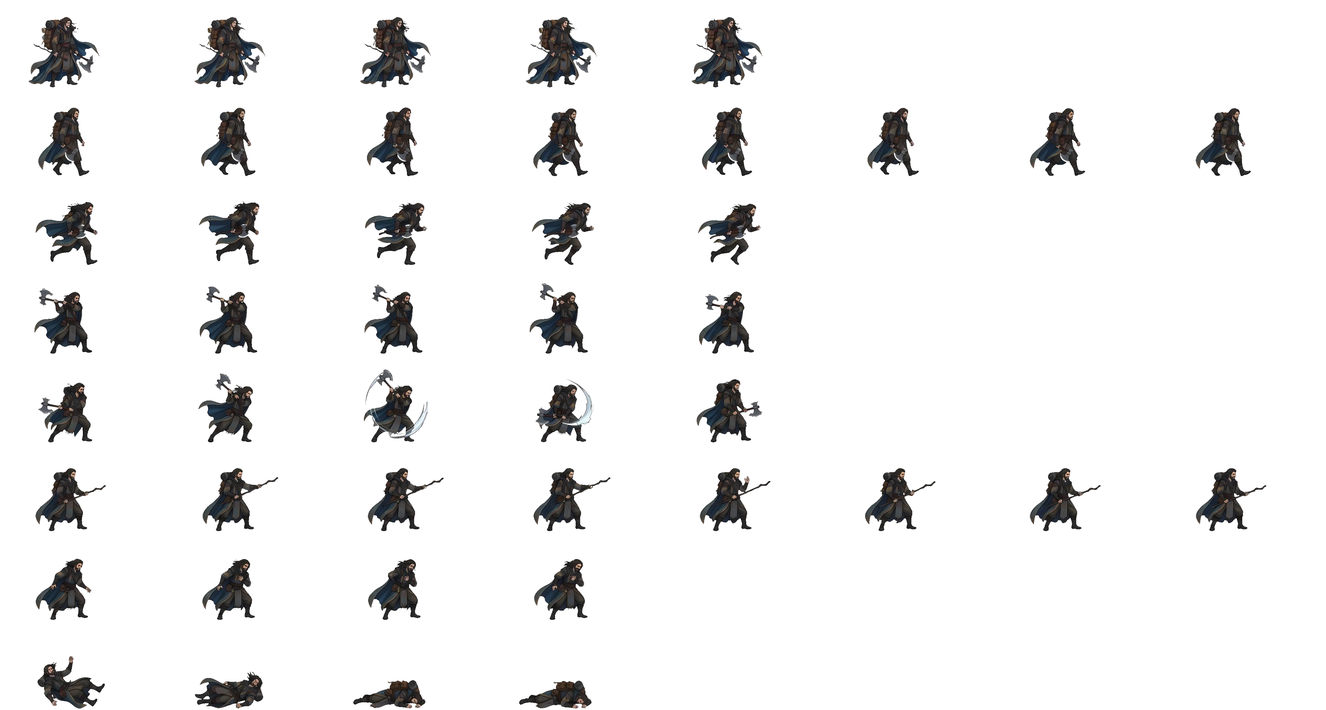
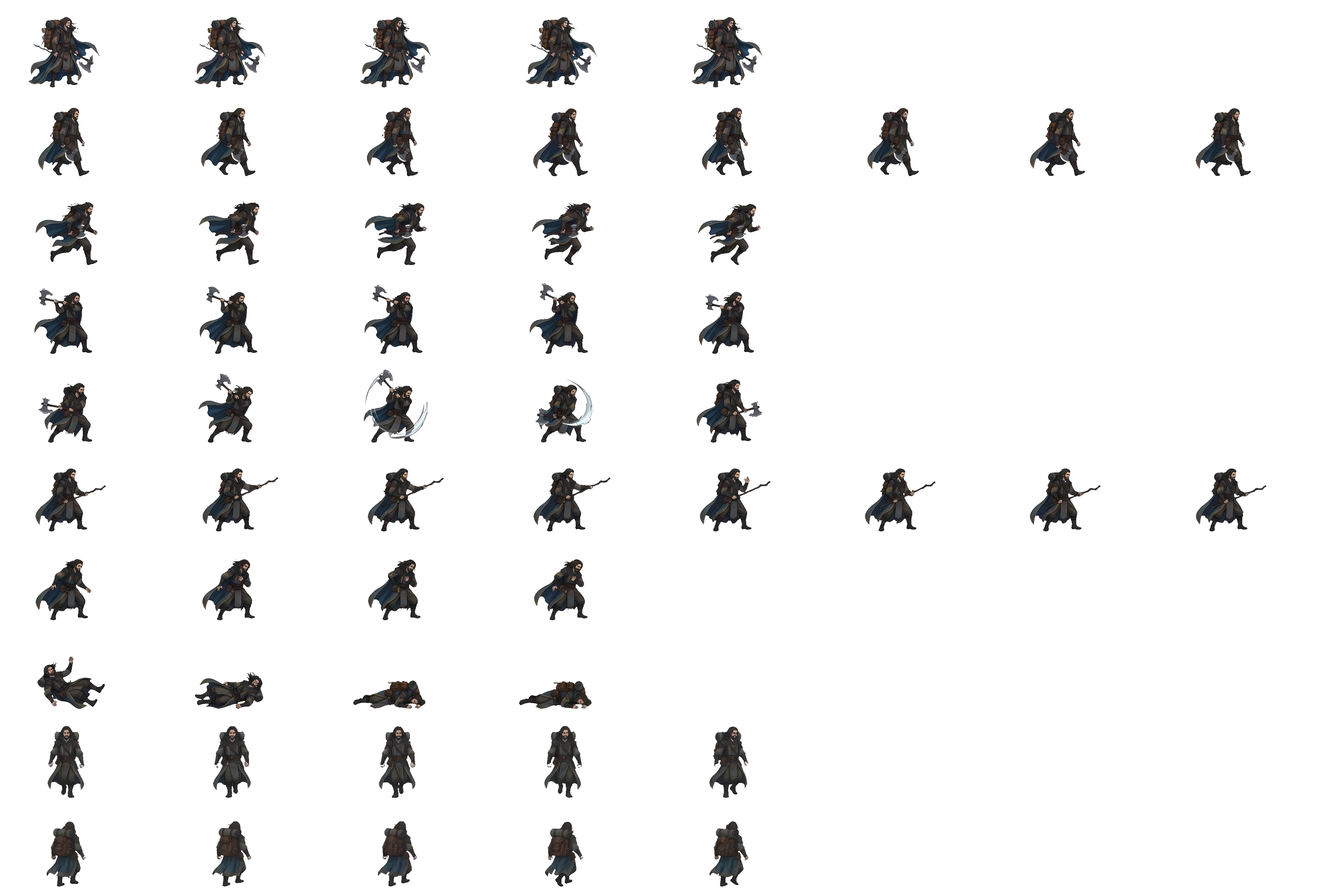
Jak: back and front walk when following up and down
Claude-Session: https://claude.ai/code/session_016iBLHZqgtWrdG3jWmShjEG

diff --git a/index.html b/index.html
@@ -49,7 +49,7 @@ body{display:flex;justify-content:center}
 
 <script>
 const ATLAS_SRC="assets/lum_atlas_v5.webp?v=b5d321dc8e";
-const ASSET_SRC={"ground": "assets/ground.webp?v=c61ee31f5b", "rock1": "assets/rock1.webp?v=4e677f3831", "rock2": "assets/rock2.webp?v=7dd0569dcb", "rock3": "assets/rock3.webp?v=56b967ad67", "rock4": "assets/rock4.webp?v=0d1af80431", "cottage": "assets/cottage.webp?v=698443d54d", "cottage_win": "assets/cottage_win.webp?v=7aa924e07f", "cottage_runes": "assets/cottage_runes.webp?v=fedf57d4f3", "well2": "assets/well2.webp?v=af52a369ca", "signpost": "assets/signpost.webp?v=58d6cbc3c9", "runetree": "assets/runetree.webp?v=882fef9528", "runetree_runes": "assets/runetree_runes.webp?v=32432a9566", "forest_bg": "assets/forest_bg.webp?v=48e7441431", "wellroom": "assets/wellroom.webp?v=4c525760c2", "wellroom_runes": "assets/wellroom_runes.webp?v=f42530f4f2", "wellroom_nobucket": "assets/wellroom_nobucket.webp?v=f47f13a7c8", "bucket_hat": "assets/bucket_hat.webp?v=a26814e8f8", "bucket_worn": "assets/bucket_worn.webp?v=a493a15958", "jelly_idle": "assets/jelly_idle.webp?v=71fed74136", "jelly_lunge": "assets/jelly_lunge.webp?v=92b0dc4343", "studyroom": "assets/studyroom.webp?v=a45726d36c", "grave0": "assets/grave0.webp?v=ad382cac7a", "grave1": "assets/grave1.webp?v=cefcf7ebac", "grave2": "assets/grave2.webp?v=9878aa3e55", "grave3": "assets/grave3.webp?v=a7a223d89e", "grave4": "assets/grave4.webp?v=a1028b8b90", "grave5": "assets/grave5.webp?v=0e02f5ad47", "grave6": "assets/grave6.webp?v=d0d80e2012", "grave7": "assets/grave7.webp?v=63f26d00aa", "grave8": "assets/grave8.webp?v=23e439ffe1", "grave9": "assets/grave9.webp?v=e07c5d7e34", "grave10": "assets/grave10.webp?v=fc3c50105c", "grave11": "assets/grave11.webp?v=8c2b60ce50", "bedroom": "assets/bedroom.webp?v=2225ec5dde", "sleep_cos": "assets/sleep_cos.webp?v=1b3af569b0", "sleep_lum": "assets/sleep_lum.webp?v=cd742dd436", "shoproom": "assets/shoproom.webp?v=79fc4857bd", "pondroom": "assets/pondroom.webp?v=50b5134a4a", "pcol_l": "assets/pcol_l.webp?v=e9bb5ccd70", "pcol_r": "assets/pcol_r.webp?v=dbb98c3bbf", "shed": "assets/shed.webp?v=543a9519de", "shedroom": "assets/shedroom.webp?v=f4136aef1d", "mimic": "assets/mimic.webp?v=b4eccb2cc0", "skel": "assets/skel.webp?v=6bdb7d42b9", "fokalur": "assets/fokalur.webp?v=32e8fdde12", "gate": "assets/gate.webp?v=b13c3b515c", "hut": "assets/hut.webp?v=93968f3788", "icon_potion": "assets/icon_potion.webp?v=ead5b0d648", "icon_pouch_seal": "assets/icon_pouch_seal.webp?v=f5895d2c6b", "icon_pouch": "assets/icon_pouch.webp?v=1228805e30", "icon_pouch_rose": "assets/icon_pouch_rose.webp?v=9ce159b238", "icon_pouch_crystal": "assets/icon_pouch_crystal.webp?v=0f51c72ecd", "icon_stick": "assets/icon_stick.webp?v=7da6e80825", "icon_rod": "assets/icon_rod.webp?v=500c8ad5de", "icon_staff_crystal": "assets/icon_staff_crystal.webp?v=2fadb8e7cf", "icon_staff_unicorn": "assets/icon_staff_unicorn.webp?v=19aca18031", "icon_sword_wood": "assets/icon_sword_wood.webp?v=51208a1356", "icon_sword_iron": "assets/icon_sword_iron.webp?v=5d4e663c8b", "icon_blade_dark": "assets/icon_blade_dark.webp?v=f39a2c7691", "icon_sword_long": "assets/icon_sword_long.webp?v=e2ed18cc86", "icon_sword_rune": "assets/icon_sword_rune.webp?v=0950c74e57", "icon_boots_leather": "assets/icon_boots_leather.webp?v=735092ee0b", "icon_boots_rubber_green": "assets/icon_boots_rubber_green.webp?v=698906df6b", "icon_boots_chain": "assets/icon_boots_chain.webp?v=024ff688e1", "icon_boots_plate": "assets/icon_boots_plate.webp?v=74076691fc", "icon_boots_winged": "assets/icon_boots_winged.webp?v=8c4553d310", "icon_cloak_apprentice": "assets/icon_cloak_apprentice.webp?v=1d1a6ddb1f", "icon_cloak_undine": "assets/icon_cloak_undine.webp?v=940789d635", "icon_cloak_green": "assets/icon_cloak_green.webp?v=76adbc8f83", "icon_cloak_grey": "assets/icon_cloak_grey.webp?v=d59e43efdb", "icon_cape_stars": "assets/icon_cape_stars.webp?v=d6e7732a4b", "icon_cape_lion_red": "assets/icon_cape_lion_red.webp?v=71308a4082", "icon_cape_lion_white": "assets/icon_cape_lion_white.webp?v=898859a526", "icon_cape_wings": "assets/icon_cape_wings.webp?v=2f7ea8ce7c", "slugking": "assets/slugking.webp?v=2f01c887f5", "jelly_idle_moss": "assets/jelly_idle_moss.webp?v=86cd24ecd3", "jelly_lunge_moss": "assets/jelly_lunge_moss.webp?v=bb5e70117f", "rskel": "assets/rskel.webp?v=c21afe8d1f", "wisp": "assets/wisp.webp?v=5b64d7379a", "vane": "assets/vane.webp?v=ddc4dc4c1e", "reaper": "assets/reaper.webp?v=2d19da05f6", "vanehut": "assets/vanehut.webp?v=27acb20d56", "ing_duskberry": "assets/ing_duskberry.webp?v=227fa12fae", "ing_dewberry": "assets/ing_dewberry.webp?v=7acbb8f24a", "ing_emberberry": "assets/ing_emberberry.webp?v=182192d25f", "ing_leavesB5": "assets/ing_leavesB5.webp?v=670e67f484", "ing_slime": "assets/ing_slime.webp?v=2d52e374b9", "ing_bones": "assets/ing_bones.webp?v=d2f5252a5b", "ing_twig": "assets/ing_twig.webp?v=ce341bff86", "tool_lantern": "assets/tool_lantern.webp?v=b0badf9ba0", "tool_lantern_ornate": "assets/tool_lantern_ornate.webp?v=6d22a8b9d8", "tool_rune_compass": "assets/tool_rune_compass.webp?v=3d79732549", "emote_grab": "assets/emote_grab.webp?v=0210ee5f87", "icon4_boots_fur": "assets/icon4_boots_fur.webp?v=257380106a", "spider": "assets/spider.webp?v=2082b59414", "bat": "assets/bat.webp?v=8384f2ed44", "fox": "assets/fox.webp?v=d1d5a33797", "flora": "assets/flora.webp?v=b2984d2fc2", "bramble_arch": "assets/bramble_arch.webp?v=f4f04cdb52", "bramble_hedge": "assets/bramble_hedge.webp?v=d4eccc44e3", "oak_big": "assets/oak_big.webp?v=a31af37e20", "webtree": "assets/webtree.webp?v=9c025b735f", "bwood_big": "assets/bwood_big.webp?v=cfb9ccc351", "bwood_small_a": "assets/bwood_small_a.webp?v=33d4334dc6", "bwood_small_b": "assets/bwood_small_b.webp?v=85c53e90a1", "bwood2_big": "assets/bwood2_big.webp?v=fdec0206c8", "bwood2_small_a": "assets/bwood2_small_a.webp?v=423d3b4f74", "bwood2_small_b": "assets/bwood2_small_b.webp?v=fc8a2edaac", "floor_st": "assets/floor_st.webp?v=c9eb0963f5", "jak": "assets/jak.webp?v=816094a379", "icon_axe_wood": "assets/icon_axe_wood.webp?v=c531e310b1", "icon_axe_double_iron": "assets/icon_axe_double_iron.webp?v=1b08693001", "icon_axe_pearl": "assets/icon_axe_pearl.webp?v=1dfe41cb0b", "icon_axe_rune_gold": "assets/icon_axe_rune_gold.webp?v=aac528fea8", "icon_axe_jeweled": "assets/icon_axe_jeweled.webp?v=ea9c4a26e0", "icon_axe_broken": "assets/icon_axe_broken.webp?v=e1893bb616", "icon_axe_rusty": "assets/icon_axe_rusty.webp?v=1378b7b200", "icon_axe_leaf": "assets/icon_axe_leaf.webp?v=a4488d45e3", "icon_axe_bearded": "assets/icon_axe_bearded.webp?v=9af8e4a3ca", "icon_axe_steel": "assets/icon_axe_steel.webp?v=471dd46f27", "icon_axe_frost": "assets/icon_axe_frost.webp?v=302d3e06ea", "fox_red": "assets/fox_red.webp?v=9e66ea9c96", "jelly_idle_red": "assets/jelly_idle_red.webp?v=43ea16fbfd", "jelly_lunge_red": "assets/jelly_lunge_red.webp?v=d978f8f86e", "spider_dark": "assets/spider_dark.webp?v=dd9cccd6da", "thorngate": "assets/thorngate.webp?v=42c0f07e5d", "rose_bud": "assets/rose_bud.webp?v=bcef1e8f75", "rose_open": "assets/rose_open.webp?v=a0242c359d", "rose_twin": "assets/rose_twin.webp?v=e2297a7a91", "thdec_stickweb": "assets/thdec_stickweb.webp?v=a0b5d29ef3", "thdec_mushweb": "assets/thdec_mushweb.webp?v=ef66bb87d1", "thdec_litterweb": "assets/thdec_litterweb.webp?v=55159b7bc4", "thdec_fernweb": "assets/thdec_fernweb.webp?v=835280ac84", "thdec_smallweb": "assets/thdec_smallweb.webp?v=ca6202bcd2", "thdec_log": "assets/thdec_log.webp?v=366093c3a6", "icon3_mortar_clay": "assets/icon3_mortar_clay.webp?v=79428386fe", "icon4_sun_bottle": "assets/icon4_sun_bottle.webp?v=814504de18", "icon3_frost_bowl": "assets/icon3_frost_bowl.webp?v=0e086c9798", "icon3_pastel_powders": "assets/icon3_pastel_powders.webp?v=f431b705e2", "icon2_cross_wood": "assets/icon2_cross_wood.webp?v=161f6ec751", "icon2_key_gold": "assets/icon2_key_gold.webp?v=8ff3771dd5", "hollow": "assets/hollow.webp?v=dfa726d993", "dun5": "assets/dun5.webp?v=85029c1dff", "dun4": "assets/dun4.webp?v=b46827d446", "dun3": "assets/dun3.webp?v=7a88b0e860", "dun2": "assets/dun2.webp?v=21d09cc1d9", "dun1": "assets/dun1.webp?v=06e6dc99cc", "acc_heart_ring": "assets/acc_heart_ring.webp?v=5bc343177a", "acc_braid_ring": "assets/acc_braid_ring.webp?v=ef878f119c", "acc_moon_necklace": "assets/acc_moon_necklace.webp?v=e57426d856", "acc_slime_ring": "assets/acc_slime_ring.webp?v=01154880ae", "acc_amethyst": "assets/acc_amethyst.webp?v=459ad65fc8", "acc_sunmoon_medal": "assets/acc_sunmoon_medal.webp?v=0ebb4c8567", "acc_lion_ring": "assets/acc_lion_ring.webp?v=d803438586", "acc_shell_necklace": "assets/acc_shell_necklace.webp?v=eb822dcaef", "acc_wing_brooch": "assets/acc_wing_brooch.webp?v=9e7d87c59b", "acc_moonstone_ring": "assets/acc_moonstone_ring.webp?v=ffda303e15", "sfg_chest": "assets/sfg_chest.webp?v=a472570ab1", "sfg_table": "assets/sfg_table.webp?v=013527fc10", "sfg_tableleg": "assets/sfg_tableleg.webp?v=1ad782e189", "sfg_side": "assets/sfg_side.webp?v=a4a3f2284f", "sfg_lectern": "assets/sfg_lectern.webp?v=c0df8fec54", "sfg_roots": "assets/sfg_roots.webp?v=c59040b279", "birch1": "assets/birch1.webp?v=b0ea24106f", "birch2": "assets/birch2.webp?v=2dd033eac7", "birch3": "assets/birch3.webp?v=e64553ecbd", "willow1": "assets/willow1.webp?v=98786f0c84", "cobble_strip": "assets/cobble_strip.webp?v=284855081b", "cobble_runes": "assets/cobble_runes.webp?v=07a4cad76e", "bridge0": "assets/bridge0.webp?v=c930b521f8", "bridge1": "assets/bridge1.webp?v=8e675faec7", "bridge2": "assets/bridge2.webp?v=65bc61c470", "bridge3": "assets/bridge3.webp?v=153e2f5c59", "bridge4": "assets/bridge4.webp?v=b6ff9fef90", "drained0": "assets/drained0.webp?v=dee278254d", "drained1": "assets/drained1.webp?v=c38f30e4a2", "drained2": "assets/drained2.webp?v=c2abd46393", "drained3": "assets/drained3.webp?v=d0408dce90", "drained4": "assets/drained4.webp?v=49fe89ce29", "drained5": "assets/drained5.webp?v=8b2a410ea1", "drained6": "assets/drained6.webp?v=b735f267b4", "drained7": "assets/drained7.webp?v=aefa2993f7", "drained8": "assets/drained8.webp?v=e853833327", "drained9": "assets/drained9.webp?v=9a5541fe81", "shrub0": "assets/shrub0.webp?v=f9f7df7aac", "shrub1": "assets/shrub1.webp?v=f4825b0d48", "shrub2": "assets/shrub2.webp?v=b0edbbd898", "shrub3": "assets/shrub3.webp?v=bc7a089a89", "shrub4": "assets/shrub4.webp?v=bb66d76d2e", "shrub5": "assets/shrub5.webp?v=ffbae35557", "shrub6": "assets/shrub6.webp?v=1c234a4c17", "shrub7": "assets/shrub7.webp?v=5b1a8119f9", "shrub8": "assets/shrub8.webp?v=a937edbbf3", "shrub9": "assets/shrub9.webp?v=dfb2f54698", "shrub10": "assets/shrub10.webp?v=5c2dd38d41", "shrub11": "assets/shrub11.webp?v=3faa1b4736", "bird0": "assets/bird0.webp?v=7d5d2404e5", "bird1": "assets/bird1.webp?v=eb12c73b19", "bird2": "assets/bird2.webp?v=ca02415237", "bird3": "assets/bird3.webp?v=42efa7eb02", "bird4": "assets/bird4.webp?v=7a9329e236", "bird5": "assets/bird5.webp?v=90bd3aa6a3", "bird6": "assets/bird6.webp?v=0a764f8ed6", "bird7": "assets/bird7.webp?v=04e3aa6d61", "bird8": "assets/bird8.webp?v=11cac9e48b", "bird9": "assets/bird9.webp?v=209732f271", "bird10": "assets/bird10.webp?v=518afeccc0", "bird11": "assets/bird11.webp?v=41c18c5083", "bird12": "assets/bird12.webp?v=9250bb7453", "topi_cube": "assets/topi_cube.webp?v=1fc6082fd5", "topi_ball": "assets/topi_ball.webp?v=78a3cfcc82", "topi_spiral": "assets/topi_spiral.webp?v=d6ac5cd38a", "topi_cone": "assets/topi_cone.webp?v=67e11f2900"};
+const ASSET_SRC={"ground": "assets/ground.webp?v=c61ee31f5b", "rock1": "assets/rock1.webp?v=4e677f3831", "rock2": "assets/rock2.webp?v=7dd0569dcb", "rock3": "assets/rock3.webp?v=56b967ad67", "rock4": "assets/rock4.webp?v=0d1af80431", "cottage": "assets/cottage.webp?v=698443d54d", "cottage_win": "assets/cottage_win.webp?v=7aa924e07f", "cottage_runes": "assets/cottage_runes.webp?v=fedf57d4f3", "well2": "assets/well2.webp?v=af52a369ca", "signpost": "assets/signpost.webp?v=58d6cbc3c9", "runetree": "assets/runetree.webp?v=882fef9528", "runetree_runes": "assets/runetree_runes.webp?v=32432a9566", "forest_bg": "assets/forest_bg.webp?v=48e7441431", "wellroom": "assets/wellroom.webp?v=4c525760c2", "wellroom_runes": "assets/wellroom_runes.webp?v=f42530f4f2", "wellroom_nobucket": "assets/wellroom_nobucket.webp?v=f47f13a7c8", "bucket_hat": "assets/bucket_hat.webp?v=a26814e8f8", "bucket_worn": "assets/bucket_worn.webp?v=a493a15958", "jelly_idle": "assets/jelly_idle.webp?v=71fed74136", "jelly_lunge": "assets/jelly_lunge.webp?v=92b0dc4343", "studyroom": "assets/studyroom.webp?v=a45726d36c", "grave0": "assets/grave0.webp?v=ad382cac7a", "grave1": "assets/grave1.webp?v=cefcf7ebac", "grave2": "assets/grave2.webp?v=9878aa3e55", "grave3": "assets/grave3.webp?v=a7a223d89e", "grave4": "assets/grave4.webp?v=a1028b8b90", "grave5": "assets/grave5.webp?v=0e02f5ad47", "grave6": "assets/grave6.webp?v=d0d80e2012", "grave7": "assets/grave7.webp?v=63f26d00aa", "grave8": "assets/grave8.webp?v=23e439ffe1", "grave9": "assets/grave9.webp?v=e07c5d7e34", "grave10": "assets/grave10.webp?v=fc3c50105c", "grave11": "assets/grave11.webp?v=8c2b60ce50", "bedroom": "assets/bedroom.webp?v=2225ec5dde", "sleep_cos": "assets/sleep_cos.webp?v=1b3af569b0", "sleep_lum": "assets/sleep_lum.webp?v=cd742dd436", "shoproom": "assets/shoproom.webp?v=79fc4857bd", "pondroom": "assets/pondroom.webp?v=50b5134a4a", "pcol_l": "assets/pcol_l.webp?v=e9bb5ccd70", "pcol_r": "assets/pcol_r.webp?v=dbb98c3bbf", "shed": "assets/shed.webp?v=543a9519de", "shedroom": "assets/shedroom.webp?v=f4136aef1d", "mimic": "assets/mimic.webp?v=b4eccb2cc0", "skel": "assets/skel.webp?v=6bdb7d42b9", "fokalur": "assets/fokalur.webp?v=32e8fdde12", "gate": "assets/gate.webp?v=b13c3b515c", "hut": "assets/hut.webp?v=93968f3788", "icon_potion": "assets/icon_potion.webp?v=ead5b0d648", "icon_pouch_seal": "assets/icon_pouch_seal.webp?v=f5895d2c6b", "icon_pouch": "assets/icon_pouch.webp?v=1228805e30", "icon_pouch_rose": "assets/icon_pouch_rose.webp?v=9ce159b238", "icon_pouch_crystal": "assets/icon_pouch_crystal.webp?v=0f51c72ecd", "icon_stick": "assets/icon_stick.webp?v=7da6e80825", "icon_rod": "assets/icon_rod.webp?v=500c8ad5de", "icon_staff_crystal": "assets/icon_staff_crystal.webp?v=2fadb8e7cf", "icon_staff_unicorn": "assets/icon_staff_unicorn.webp?v=19aca18031", "icon_sword_wood": "assets/icon_sword_wood.webp?v=51208a1356", "icon_sword_iron": "assets/icon_sword_iron.webp?v=5d4e663c8b", "icon_blade_dark": "assets/icon_blade_dark.webp?v=f39a2c7691", "icon_sword_long": "assets/icon_sword_long.webp?v=e2ed18cc86", "icon_sword_rune": "assets/icon_sword_rune.webp?v=0950c74e57", "icon_boots_leather": "assets/icon_boots_leather.webp?v=735092ee0b", "icon_boots_rubber_green": "assets/icon_boots_rubber_green.webp?v=698906df6b", "icon_boots_chain": "assets/icon_boots_chain.webp?v=024ff688e1", "icon_boots_plate": "assets/icon_boots_plate.webp?v=74076691fc", "icon_boots_winged": "assets/icon_boots_winged.webp?v=8c4553d310", "icon_cloak_apprentice": "assets/icon_cloak_apprentice.webp?v=1d1a6ddb1f", "icon_cloak_undine": "assets/icon_cloak_undine.webp?v=940789d635", "icon_cloak_green": "assets/icon_cloak_green.webp?v=76adbc8f83", "icon_cloak_grey": "assets/icon_cloak_grey.webp?v=d59e43efdb", "icon_cape_stars": "assets/icon_cape_stars.webp?v=d6e7732a4b", "icon_cape_lion_red": "assets/icon_cape_lion_red.webp?v=71308a4082", "icon_cape_lion_white": "assets/icon_cape_lion_white.webp?v=898859a526", "icon_cape_wings": "assets/icon_cape_wings.webp?v=2f7ea8ce7c", "slugking": "assets/slugking.webp?v=2f01c887f5", "jelly_idle_moss": "assets/jelly_idle_moss.webp?v=86cd24ecd3", "jelly_lunge_moss": "assets/jelly_lunge_moss.webp?v=bb5e70117f", "rskel": "assets/rskel.webp?v=c21afe8d1f", "wisp": "assets/wisp.webp?v=5b64d7379a", "vane": "assets/vane.webp?v=ddc4dc4c1e", "reaper": "assets/reaper.webp?v=2d19da05f6", "vanehut": "assets/vanehut.webp?v=27acb20d56", "ing_duskberry": "assets/ing_duskberry.webp?v=227fa12fae", "ing_dewberry": "assets/ing_dewberry.webp?v=7acbb8f24a", "ing_emberberry": "assets/ing_emberberry.webp?v=182192d25f", "ing_leavesB5": "assets/ing_leavesB5.webp?v=670e67f484", "ing_slime": "assets/ing_slime.webp?v=2d52e374b9", "ing_bones": "assets/ing_bones.webp?v=d2f5252a5b", "ing_twig": "assets/ing_twig.webp?v=ce341bff86", "tool_lantern": "assets/tool_lantern.webp?v=b0badf9ba0", "tool_lantern_ornate": "assets/tool_lantern_ornate.webp?v=6d22a8b9d8", "tool_rune_compass": "assets/tool_rune_compass.webp?v=3d79732549", "emote_grab": "assets/emote_grab.webp?v=0210ee5f87", "icon4_boots_fur": "assets/icon4_boots_fur.webp?v=257380106a", "spider": "assets/spider.webp?v=2082b59414", "bat": "assets/bat.webp?v=8384f2ed44", "fox": "assets/fox.webp?v=d1d5a33797", "flora": "assets/flora.webp?v=b2984d2fc2", "bramble_arch": "assets/bramble_arch.webp?v=f4f04cdb52", "bramble_hedge": "assets/bramble_hedge.webp?v=d4eccc44e3", "oak_big": "assets/oak_big.webp?v=a31af37e20", "webtree": "assets/webtree.webp?v=9c025b735f", "bwood_big": "assets/bwood_big.webp?v=cfb9ccc351", "bwood_small_a": "assets/bwood_small_a.webp?v=33d4334dc6", "bwood_small_b": "assets/bwood_small_b.webp?v=85c53e90a1", "bwood2_big": "assets/bwood2_big.webp?v=fdec0206c8", "bwood2_small_a": "assets/bwood2_small_a.webp?v=423d3b4f74", "bwood2_small_b": "assets/bwood2_small_b.webp?v=fc8a2edaac", "floor_st": "assets/floor_st.webp?v=c9eb0963f5", "jak": "assets/jak.webp?v=2e39bccff5", "icon_axe_wood": "assets/icon_axe_wood.webp?v=c531e310b1", "icon_axe_double_iron": "assets/icon_axe_double_iron.webp?v=1b08693001", "icon_axe_pearl": "assets/icon_axe_pearl.webp?v=1dfe41cb0b", "icon_axe_rune_gold": "assets/icon_axe_rune_gold.webp?v=aac528fea8", "icon_axe_jeweled": "assets/icon_axe_jeweled.webp?v=ea9c4a26e0", "icon_axe_broken": "assets/icon_axe_broken.webp?v=e1893bb616", "icon_axe_rusty": "assets/icon_axe_rusty.webp?v=1378b7b200", "icon_axe_leaf": "assets/icon_axe_leaf.webp?v=a4488d45e3", "icon_axe_bearded": "assets/icon_axe_bearded.webp?v=9af8e4a3ca", "icon_axe_steel": "assets/icon_axe_steel.webp?v=471dd46f27", "icon_axe_frost": "assets/icon_axe_frost.webp?v=302d3e06ea", "fox_red": "assets/fox_red.webp?v=9e66ea9c96", "jelly_idle_red": "assets/jelly_idle_red.webp?v=43ea16fbfd", "jelly_lunge_red": "assets/jelly_lunge_red.webp?v=d978f8f86e", "spider_dark": "assets/spider_dark.webp?v=dd9cccd6da", "thorngate": "assets/thorngate.webp?v=42c0f07e5d", "rose_bud": "assets/rose_bud.webp?v=bcef1e8f75", "rose_open": "assets/rose_open.webp?v=a0242c359d", "rose_twin": "assets/rose_twin.webp?v=e2297a7a91", "thdec_stickweb": "assets/thdec_stickweb.webp?v=a0b5d29ef3", "thdec_mushweb": "assets/thdec_mushweb.webp?v=ef66bb87d1", "thdec_litterweb": "assets/thdec_litterweb.webp?v=55159b7bc4", "thdec_fernweb": "assets/thdec_fernweb.webp?v=835280ac84", "thdec_smallweb": "assets/thdec_smallweb.webp?v=ca6202bcd2", "thdec_log": "assets/thdec_log.webp?v=366093c3a6", "icon3_mortar_clay": "assets/icon3_mortar_clay.webp?v=79428386fe", "icon4_sun_bottle": "assets/icon4_sun_bottle.webp?v=814504de18", "icon3_frost_bowl": "assets/icon3_frost_bowl.webp?v=0e086c9798", "icon3_pastel_powders": "assets/icon3_pastel_powders.webp?v=f431b705e2", "icon2_cross_wood": "assets/icon2_cross_wood.webp?v=161f6ec751", "icon2_key_gold": "assets/icon2_key_gold.webp?v=8ff3771dd5", "hollow": "assets/hollow.webp?v=dfa726d993", "dun5": "assets/dun5.webp?v=85029c1dff", "dun4": "assets/dun4.webp?v=b46827d446", "dun3": "assets/dun3.webp?v=7a88b0e860", "dun2": "assets/dun2.webp?v=21d09cc1d9", "dun1": "assets/dun1.webp?v=06e6dc99cc", "acc_heart_ring": "assets/acc_heart_ring.webp?v=5bc343177a", "acc_braid_ring": "assets/acc_braid_ring.webp?v=ef878f119c", "acc_moon_necklace": "assets/acc_moon_necklace.webp?v=e57426d856", "acc_slime_ring": "assets/acc_slime_ring.webp?v=01154880ae", "acc_amethyst": "assets/acc_amethyst.webp?v=459ad65fc8", "acc_sunmoon_medal": "assets/acc_sunmoon_medal.webp?v=0ebb4c8567", "acc_lion_ring": "assets/acc_lion_ring.webp?v=d803438586", "acc_shell_necklace": "assets/acc_shell_necklace.webp?v=eb822dcaef", "acc_wing_brooch": "assets/acc_wing_brooch.webp?v=9e7d87c59b", "acc_moonstone_ring": "assets/acc_moonstone_ring.webp?v=ffda303e15", "sfg_chest": "assets/sfg_chest.webp?v=a472570ab1", "sfg_table": "assets/sfg_table.webp?v=013527fc10", "sfg_tableleg": "assets/sfg_tableleg.webp?v=1ad782e189", "sfg_side": "assets/sfg_side.webp?v=a4a3f2284f", "sfg_lectern": "assets/sfg_lectern.webp?v=c0df8fec54", "sfg_roots": "assets/sfg_roots.webp?v=c59040b279", "birch1": "assets/birch1.webp?v=b0ea24106f", "birch2": "assets/birch2.webp?v=2dd033eac7", "birch3": "assets/birch3.webp?v=e64553ecbd", "willow1": "assets/willow1.webp?v=98786f0c84", "cobble_strip": "assets/cobble_strip.webp?v=284855081b", "cobble_runes": "assets/cobble_runes.webp?v=07a4cad76e", "bridge0": "assets/bridge0.webp?v=c930b521f8", "bridge1": "assets/bridge1.webp?v=8e675faec7", "bridge2": "assets/bridge2.webp?v=65bc61c470", "bridge3": "assets/bridge3.webp?v=153e2f5c59", "bridge4": "assets/bridge4.webp?v=b6ff9fef90", "drained0": "assets/drained0.webp?v=dee278254d", "drained1": "assets/drained1.webp?v=c38f30e4a2", "drained2": "assets/drained2.webp?v=c2abd46393", "drained3": "assets/drained3.webp?v=d0408dce90", "drained4": "assets/drained4.webp?v=49fe89ce29", "drained5": "assets/drained5.webp?v=8b2a410ea1", "drained6": "assets/drained6.webp?v=b735f267b4", "drained7": "assets/drained7.webp?v=aefa2993f7", "drained8": "assets/drained8.webp?v=e853833327", "drained9": "assets/drained9.webp?v=9a5541fe81", "shrub0": "assets/shrub0.webp?v=f9f7df7aac", "shrub1": "assets/shrub1.webp?v=f4825b0d48", "shrub2": "assets/shrub2.webp?v=b0edbbd898", "shrub3": "assets/shrub3.webp?v=bc7a089a89", "shrub4": "assets/shrub4.webp?v=bb66d76d2e", "shrub5": "assets/shrub5.webp?v=ffbae35557", "shrub6": "assets/shrub6.webp?v=1c234a4c17", "shrub7": "assets/shrub7.webp?v=5b1a8119f9", "shrub8": "assets/shrub8.webp?v=a937edbbf3", "shrub9": "assets/shrub9.webp?v=dfb2f54698", "shrub10": "assets/shrub10.webp?v=5c2dd38d41", "shrub11": "assets/shrub11.webp?v=3faa1b4736", "bird0": "assets/bird0.webp?v=7d5d2404e5", "bird1": "assets/bird1.webp?v=eb12c73b19", "bird2": "assets/bird2.webp?v=ca02415237", "bird3": "assets/bird3.webp?v=42efa7eb02", "bird4": "assets/bird4.webp?v=7a9329e236", "bird5": "assets/bird5.webp?v=90bd3aa6a3", "bird6": "assets/bird6.webp?v=0a764f8ed6", "bird7": "assets/bird7.webp?v=04e3aa6d61", "bird8": "assets/bird8.webp?v=11cac9e48b", "bird9": "assets/bird9.webp?v=209732f271", "bird10": "assets/bird10.webp?v=518afeccc0", "bird11": "assets/bird11.webp?v=41c18c5083", "bird12": "assets/bird12.webp?v=9250bb7453", "topi_cube": "assets/topi_cube.webp?v=1fc6082fd5", "topi_ball": "assets/topi_ball.webp?v=78a3cfcc82", "topi_spiral": "assets/topi_spiral.webp?v=d6ac5cd38a", "topi_cone": "assets/topi_cone.webp?v=67e11f2900"};
 const COSMIC_SRC="assets/cosmic_atlas.webp?v=f87006b14b";
 const SLUG_SRC="assets/slug_atlas.webp?v=0aa482f919";
 (()=>{
@@ -2800,7 +2800,7 @@ function syncMaxHp(who=HERO){const H_=HEROES[who];let b=0;for(const k in PARTY[w
    CHAPTER 1: Lum wakes to find Cosmic gone
    ===================================================================== */
 const VANE_HAND=[[0.8416666666666667, 0.1989795918367347], [0.8472222222222222, 0.18622448979591838], [0.8416666666666667, 0.1556122448979592]];
-const C1ATL={"jak": {"cw": 560, "ch": 300, "rows": {"idle": [0, 5], "walk": [1, 8], "run": [2, 5], "chop": [3, 5], "swing": [4, 5], "cast": [5, 8], "hurt": [6, 4], "ko": [7, 4]}}, "flora": {"cw": 236, "ch": 242, "rows": {"idle": [0, 6], "bloom": [1, 8], "attack": [2, 7], "shot": [3, 1], "hurt": [4, 4]}}, "rskel": {"cw": 330, "ch": 384, "rows": {"idle": [0, 4], "move": [1, 4], "hover": [2, 3], "cast": [3, 4], "hurt": [4, 4], "die": [5, 4]}}, "wisp": {"cw": 444, "ch": 394, "rows": {"idle": [0, 4], "roll": [1, 8], "spin": [2, 4], "thorn": [3, 4], "hurt": [4, 3], "taunt": [5, 4], "die": [6, 4]}}, "vane": {"cw": 360, "ch": 392, "rows": {"idle": [0, 4], "walk": [1, 8], "hold": [2, 3], "lantern": [2, 3]}}, "reaper": {"cw": 396, "ch": 328, "rows": {"idle": [0, 6], "walk": [1, 8], "cast": [2, 7], "strike": [3, 5], "hurt": [4, 3]}}, "bat": {"cw": 608, "ch": 400, "rows": {"fly": [0, 3], "glide": [1, 3], "swoop": [2, 3], "recover": [3, 2]}}, "fox": {"cw": 315, "ch": 285, "rows": {"run": [0, 12], "jump": [1, 9], "attack": [2, 8], "jattack": [3, 1], "hurt": [4, 1]}}, "spider": {"cw": 360, "ch": 220, "rows": {"idle": [0, 4], "crawl": [1, 5], "attack": [2, 3], "jump": [3, 4]}}};
+const C1ATL={"jak": {"cw": 560, "ch": 300, "rows": {"idle": [0, 5], "walk": [1, 8], "run": [2, 5], "chop": [3, 5], "swing": [4, 5], "cast": [5, 8], "hurt": [6, 4], "ko": [7, 4], "down": [8, 5], "up": [9, 5]}}, "flora": {"cw": 236, "ch": 242, "rows": {"idle": [0, 6], "bloom": [1, 8], "attack": [2, 7], "shot": [3, 1], "hurt": [4, 4]}}, "rskel": {"cw": 330, "ch": 384, "rows": {"idle": [0, 4], "move": [1, 4], "hover": [2, 3], "cast": [3, 4], "hurt": [4, 4], "die": [5, 4]}}, "wisp": {"cw": 444, "ch": 394, "rows": {"idle": [0, 4], "roll": [1, 8], "spin": [2, 4], "thorn": [3, 4], "hurt": [4, 3], "taunt": [5, 4], "die": [6, 4]}}, "vane": {"cw": 360, "ch": 392, "rows": {"idle": [0, 4], "walk": [1, 8], "hold": [2, 3], "lantern": [2, 3]}}, "reaper": {"cw": 396, "ch": 328, "rows": {"idle": [0, 6], "walk": [1, 8], "cast": [2, 7], "strike": [3, 5], "hurt": [4, 3]}}, "bat": {"cw": 608, "ch": 400, "rows": {"fly": [0, 3], "glide": [1, 3], "swoop": [2, 3], "recover": [3, 2]}}, "fox": {"cw": 315, "ch": 285, "rows": {"run": [0, 12], "jump": [1, 9], "attack": [2, 8], "jattack": [3, 1], "hurt": [4, 1]}}, "spider": {"cw": 360, "ch": 220, "rows": {"idle": [0, 4], "crawl": [1, 5], "attack": [2, 3], "jump": [3, 4]}}};
 const C1={hedgeSeen:0,tracksSeen:0,cemSeen:0,reaper:0,vane:0,endSeen:0,woodsSeen:0};
 const WFOES=[];let REAPER=null,VANE=null;
 C1ATL.fox_red=C1ATL.fox;C1ATL.spider_dark=C1ATL.spider;
@@ -3059,10 +3059,10 @@ function updateJakFollow(dt){if(!jakInParty())return;if(!JAKF)resetJakFollow();c
   if(Math.hypot(lum.x-JAKF.x,lum.y-JAKF.y)>420){JAKF.x=lum.x-50*lum.face;JAKF.y=lum.y+4;JAKCRUMB.length=0;}
   if(acc<72){JAKF.mv=(JAKF.mv||0)*(1-Math.min(1,dt*10));JAKF.moving=JAKF.mv>.5?1:0;return;}
   const dx=tx-JAKF.x,dy=ty-JAKF.y,d=Math.hypot(dx,dy),sp=Math.min(d,RUN_SPEED*1.15*dt*(d>140?1.6:1));
-  if(d>1){JAKF.x+=dx/d*sp;JAKF.y+=dy/d*sp;const want=dx<0?-1:1;if(Math.abs(dx)>d*.35&&want!==JAKF.face){JAKF.ft=(JAKF.ft||0)+dt;if(JAKF.ft>.18){JAKF.face=want;JAKF.ft=0;}}else JAKF.ft=0;}
+  if(d>1){JAKF.x+=dx/d*sp;JAKF.y+=dy/d*sp;const vd=Math.abs(dy)>Math.abs(dx)*1.3?(dy<0?'up':'down'):Math.abs(dx)>Math.abs(dy)*.9?'side':JAKF.dir||'side';if(vd!==JAKF.dir){JAKF.dt2=(JAKF.dt2||0)+dt;if(JAKF.dt2>.12||!JAKF.dir){JAKF.dir=vd;JAKF.dt2=0;}}else JAKF.dt2=0;const want=dx<0?-1:1;if(Math.abs(dx)>d*.35&&want!==JAKF.face){JAKF.ft=(JAKF.ft||0)+dt;if(JAKF.ft>.18){JAKF.face=want;JAKF.ft=0;}}else JAKF.ft=0;}
   JAKF.mv=(JAKF.mv||0)+((sp>.4?1:0)-(JAKF.mv||0))*Math.min(1,dt*10);JAKF.moving=JAKF.mv>.5?1:0;JAKF.ph+=sp;}
-function drawJakOW(){if(!JAKF||CAPTURE.on)return;const H_=192,flip=JAKF.face<0;ctx.fillStyle='rgba(10,10,20,.25)';ctx.beginPath();ctx.ellipse(JAKF.x,JAKF.y+2,34,8,0,0,TAU);ctx.fill();
-  c1Frame(ctx,'jak',JAKF.moving?'walk':'idle',JAKF.moving?Math.floor(JAKF.ph/16)%8:0,JAKF.x+JAKDX*H_*(flip?-1:1),JAKF.y+3,H_,flip,1,0);}
+function drawJakOW(){if(!JAKF||CAPTURE.on)return;const H_=192,vert=JAKF.dir==='up'||JAKF.dir==='down',flip=vert?false:JAKF.face<0;ctx.fillStyle='rgba(10,10,20,.25)';ctx.beginPath();ctx.ellipse(JAKF.x,JAKF.y+2,34,8,0,0,TAU);ctx.fill();
+  c1Frame(ctx,'jak',vert?JAKF.dir:JAKF.moving?'walk':'idle',vert?(JAKF.moving?Math.floor(JAKF.ph/16)%5:0):JAKF.moving?Math.floor(JAKF.ph/16)%8:0,JAKF.x+JAKDX*H_*(flip?-1:1),JAKF.y+3,H_,flip,1,0);}
 function drawJakResting(){if(C1.jak)return;const x=JAKREST.x,y=JAKREST.y,H_=192,b=Math.sin(T*1.4);ctx.fillStyle='rgba(10,10,20,.3)';ctx.beginPath();ctx.ellipse(x,y+2,36,8,0,0,TAU);ctx.fill();
   ctx.save();ctx.translate(x,y);ctx.scale(1,.985+.008*b);ctx.translate(-x,-y);ctx.filter='brightness(.62) saturate(.7)';c1Frame(ctx,'jak','hurt',3,x-JAKDX*H_,y+3,H_,true,1,0);ctx.filter='none';ctx.restore();}
 function jakPos(){if(JAKF&&(SCENE==='thorn'||SCENE==='woods')&&jakInParty())return JAKF;if(SCENE==='thorn'&&!C1.jak)return JAKREST;return {x:lum.x-50,y:lum.y};}
